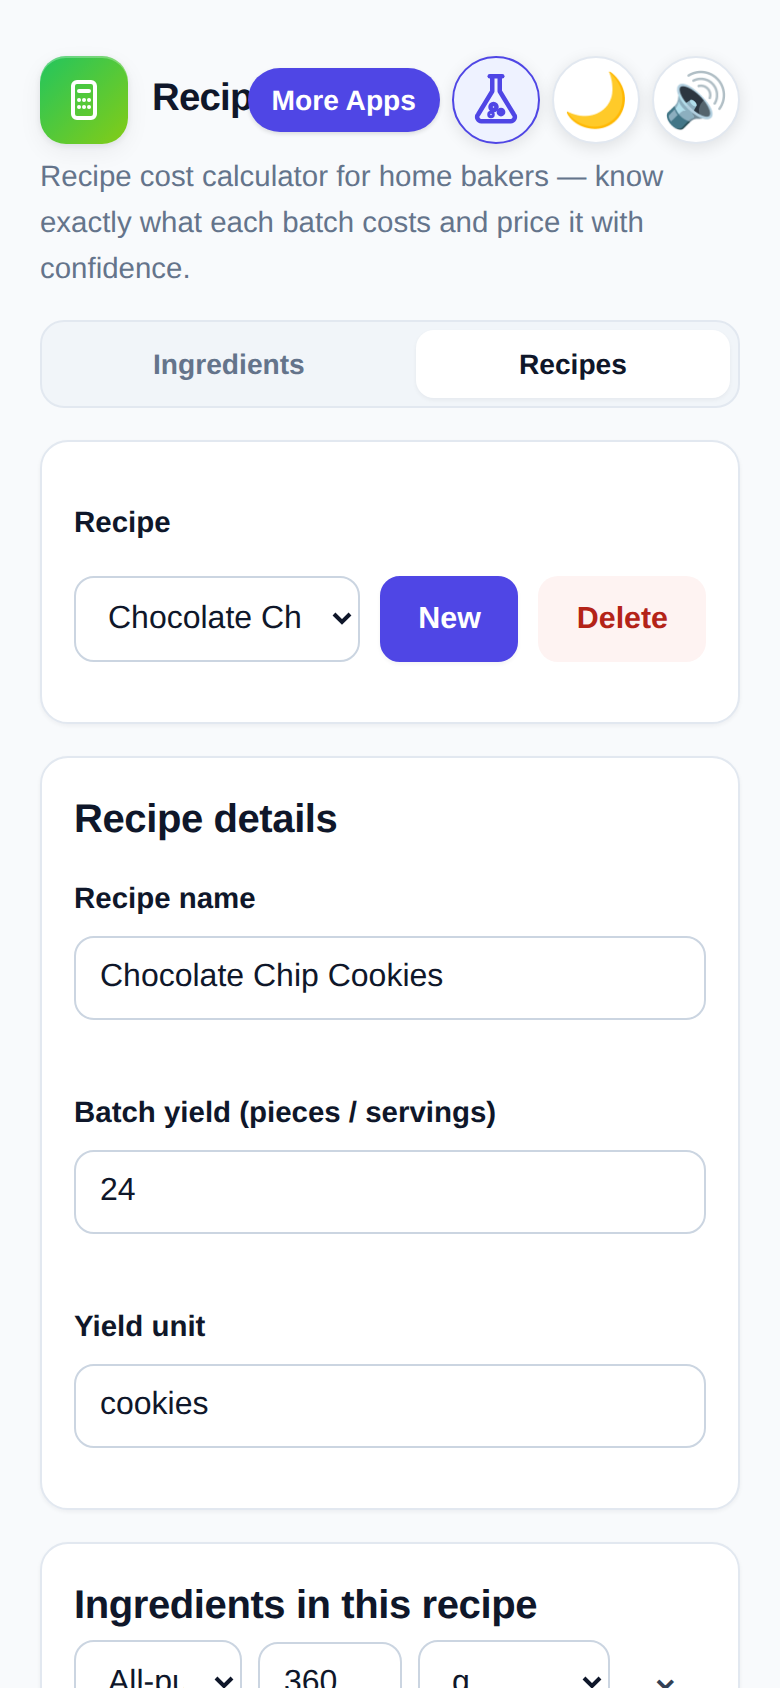
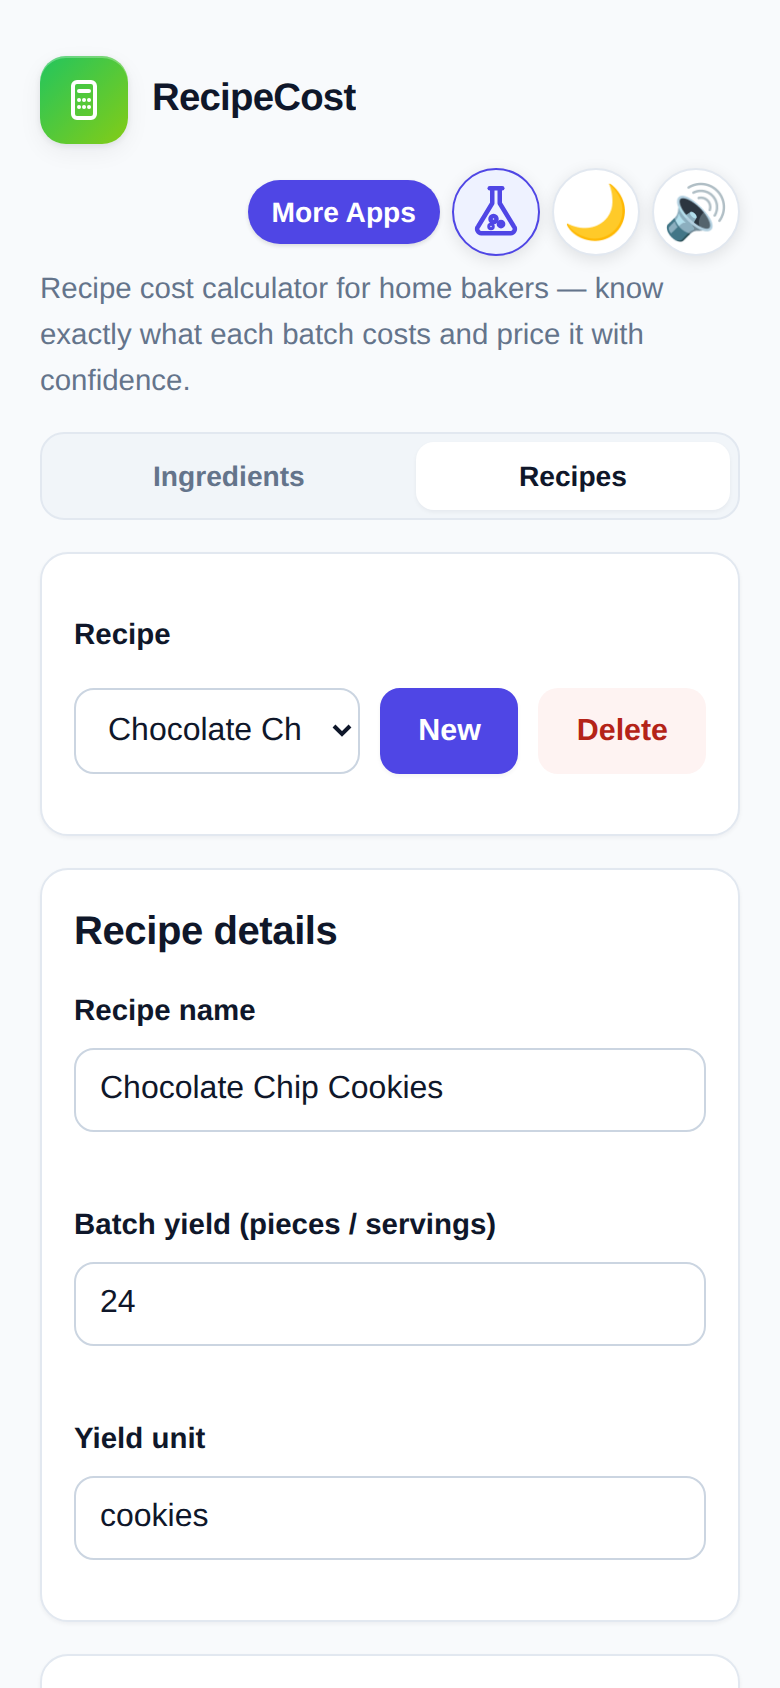
RecipeCost: mobile header wrap fix + re-captured mobile gallery shot + rebuilt bundle

diff --git a/staging/recipecost/index.html b/staging/recipecost/index.html
@@ -633,7 +633,10 @@ a:focus-visible {
 .kpi[role="button"]:focus { outline: none; }
 .kpi[role="button"]:focus-visible { outline: 2px solid #4f46e5; outline-offset: 2px; }
 @media (max-width: 480px) {
-  .g-header-actions { gap: 6px; flex-wrap: wrap; justify-content: flex-end; }
+  .g-header { flex-wrap: wrap; } /* narrow screens: actions drop to their own row instead of colliding with the brand */
+  .g-brand { flex: 1 1 auto; min-width: 0; }
+  .g-brand-name { white-space: nowrap; overflow: hidden; text-overflow: ellipsis; } /* safety: never overlap, truncate instead */
+  .g-header-actions { gap: 6px; flex-wrap: wrap; justify-content: flex-end; flex: 1 1 auto; }
 }
 .g-store-btn {
   display: inline-flex; align-items: center;
